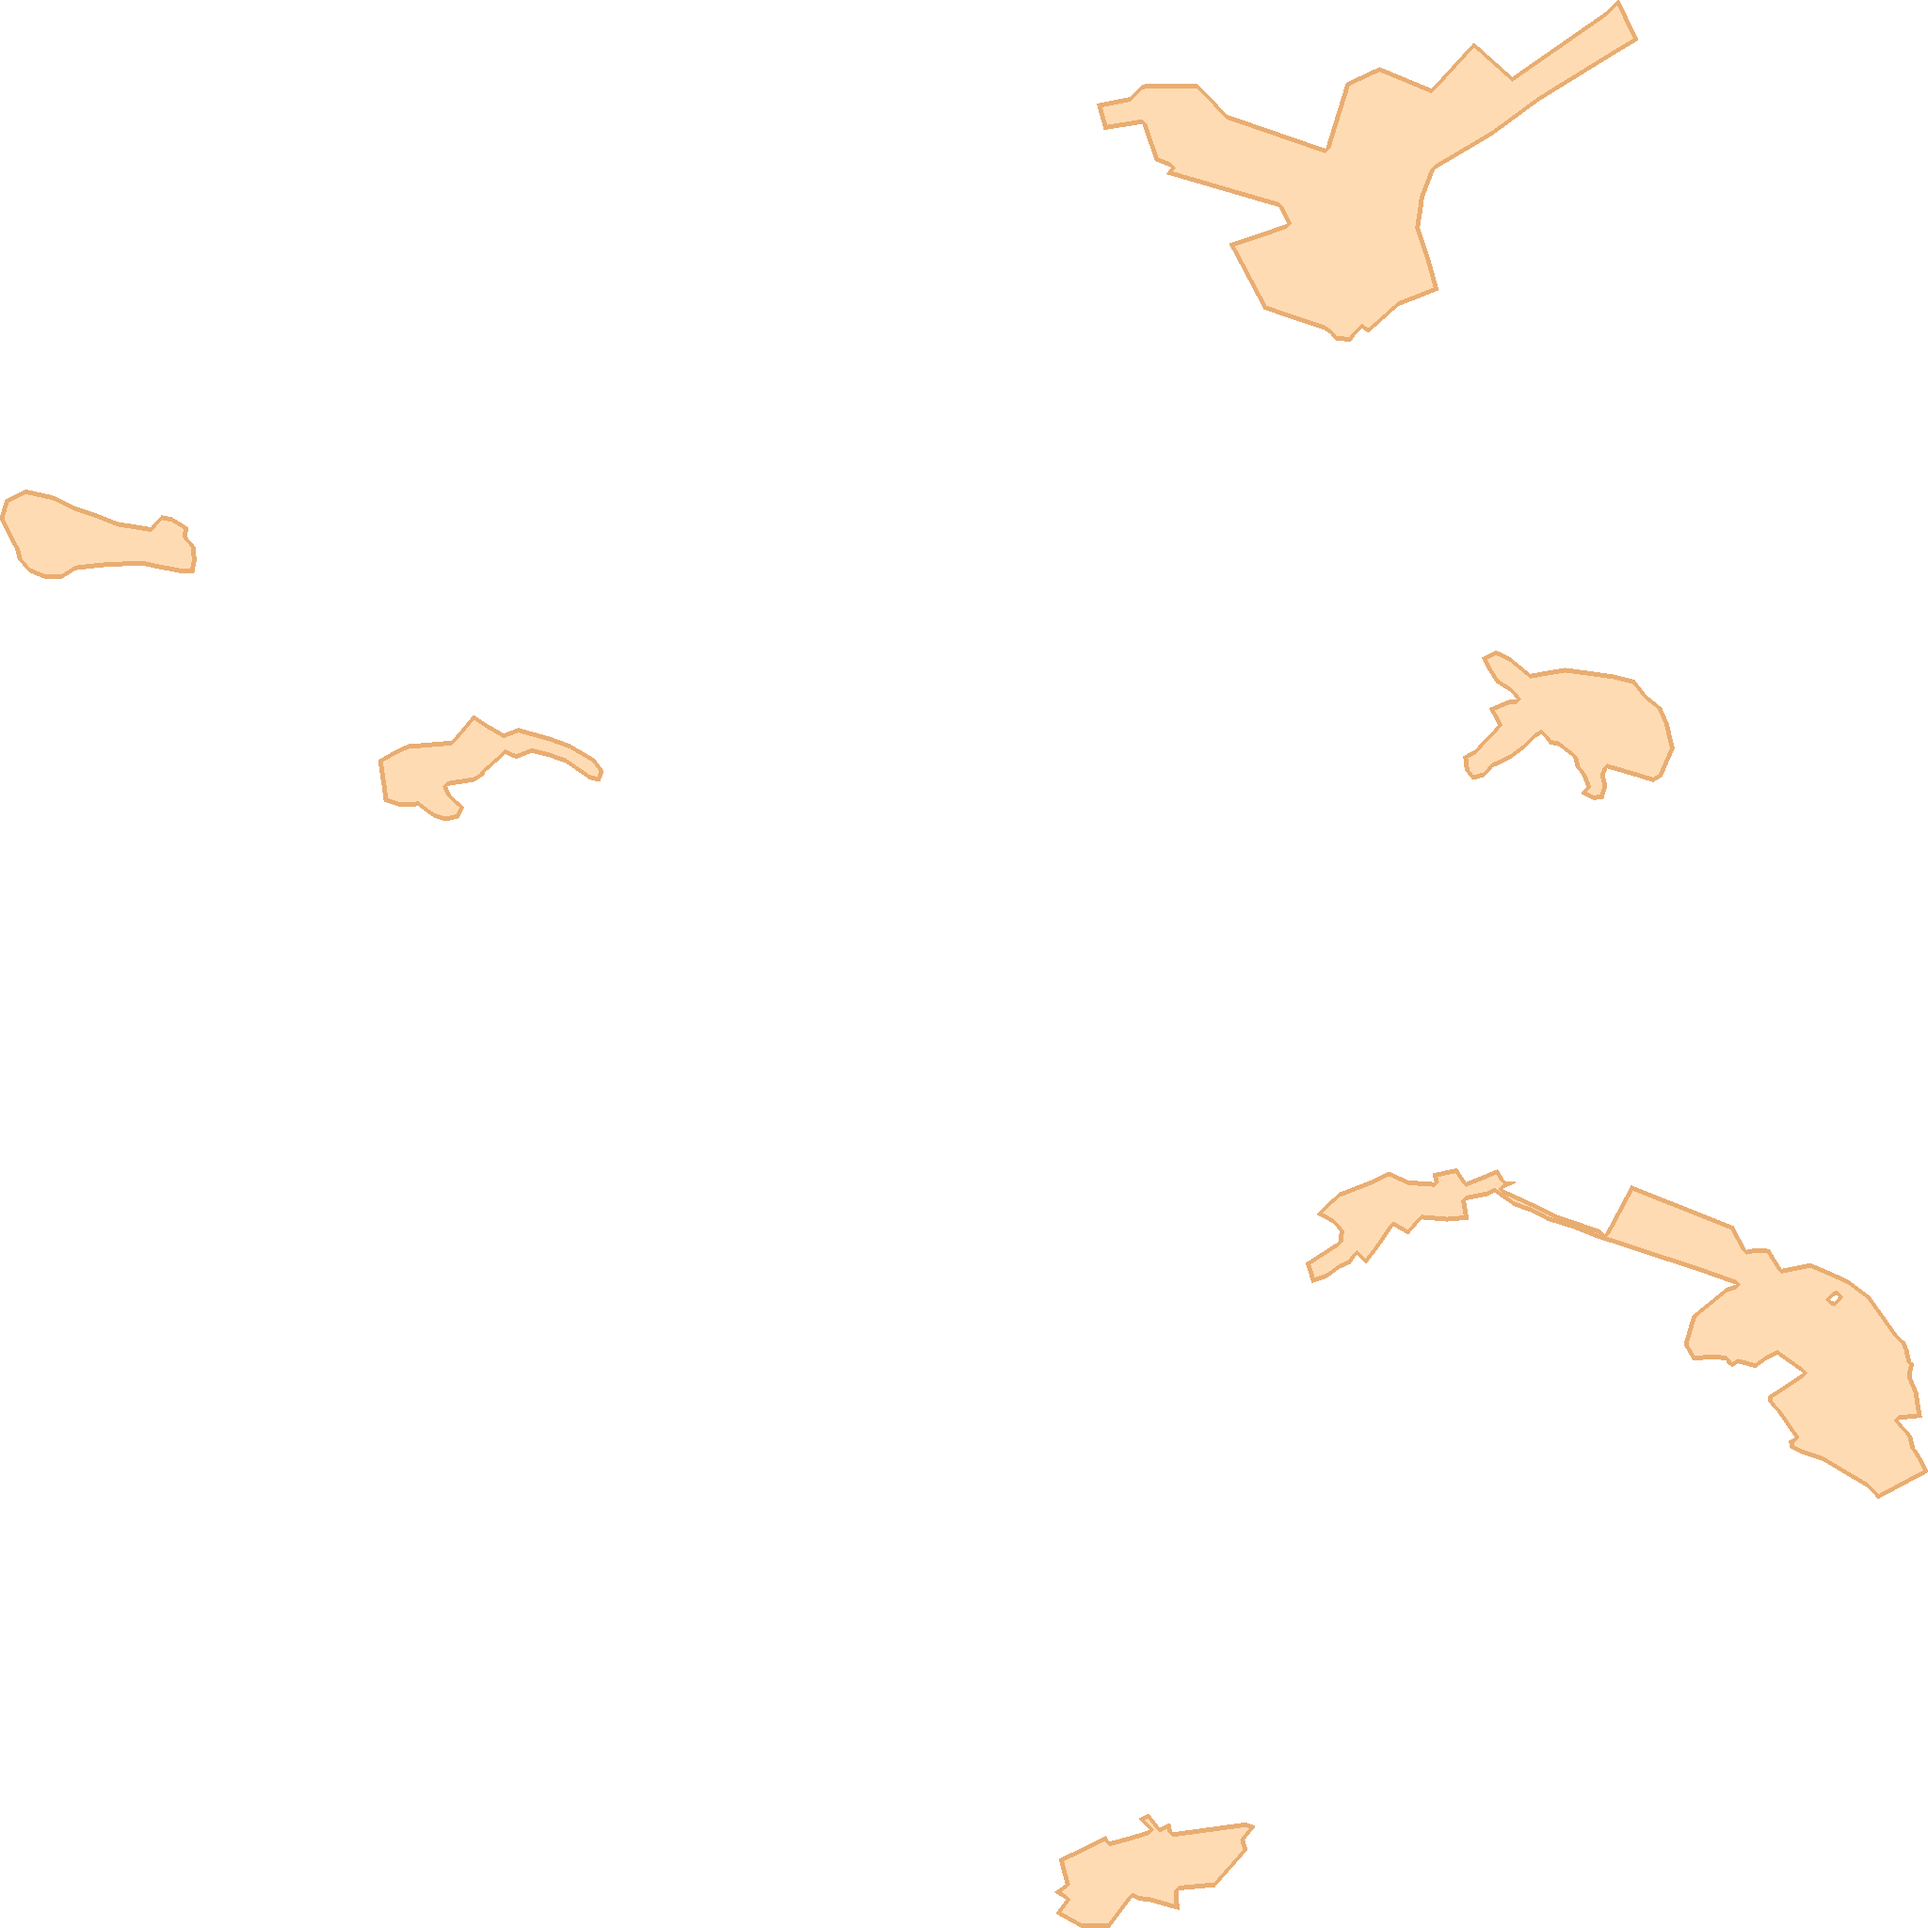
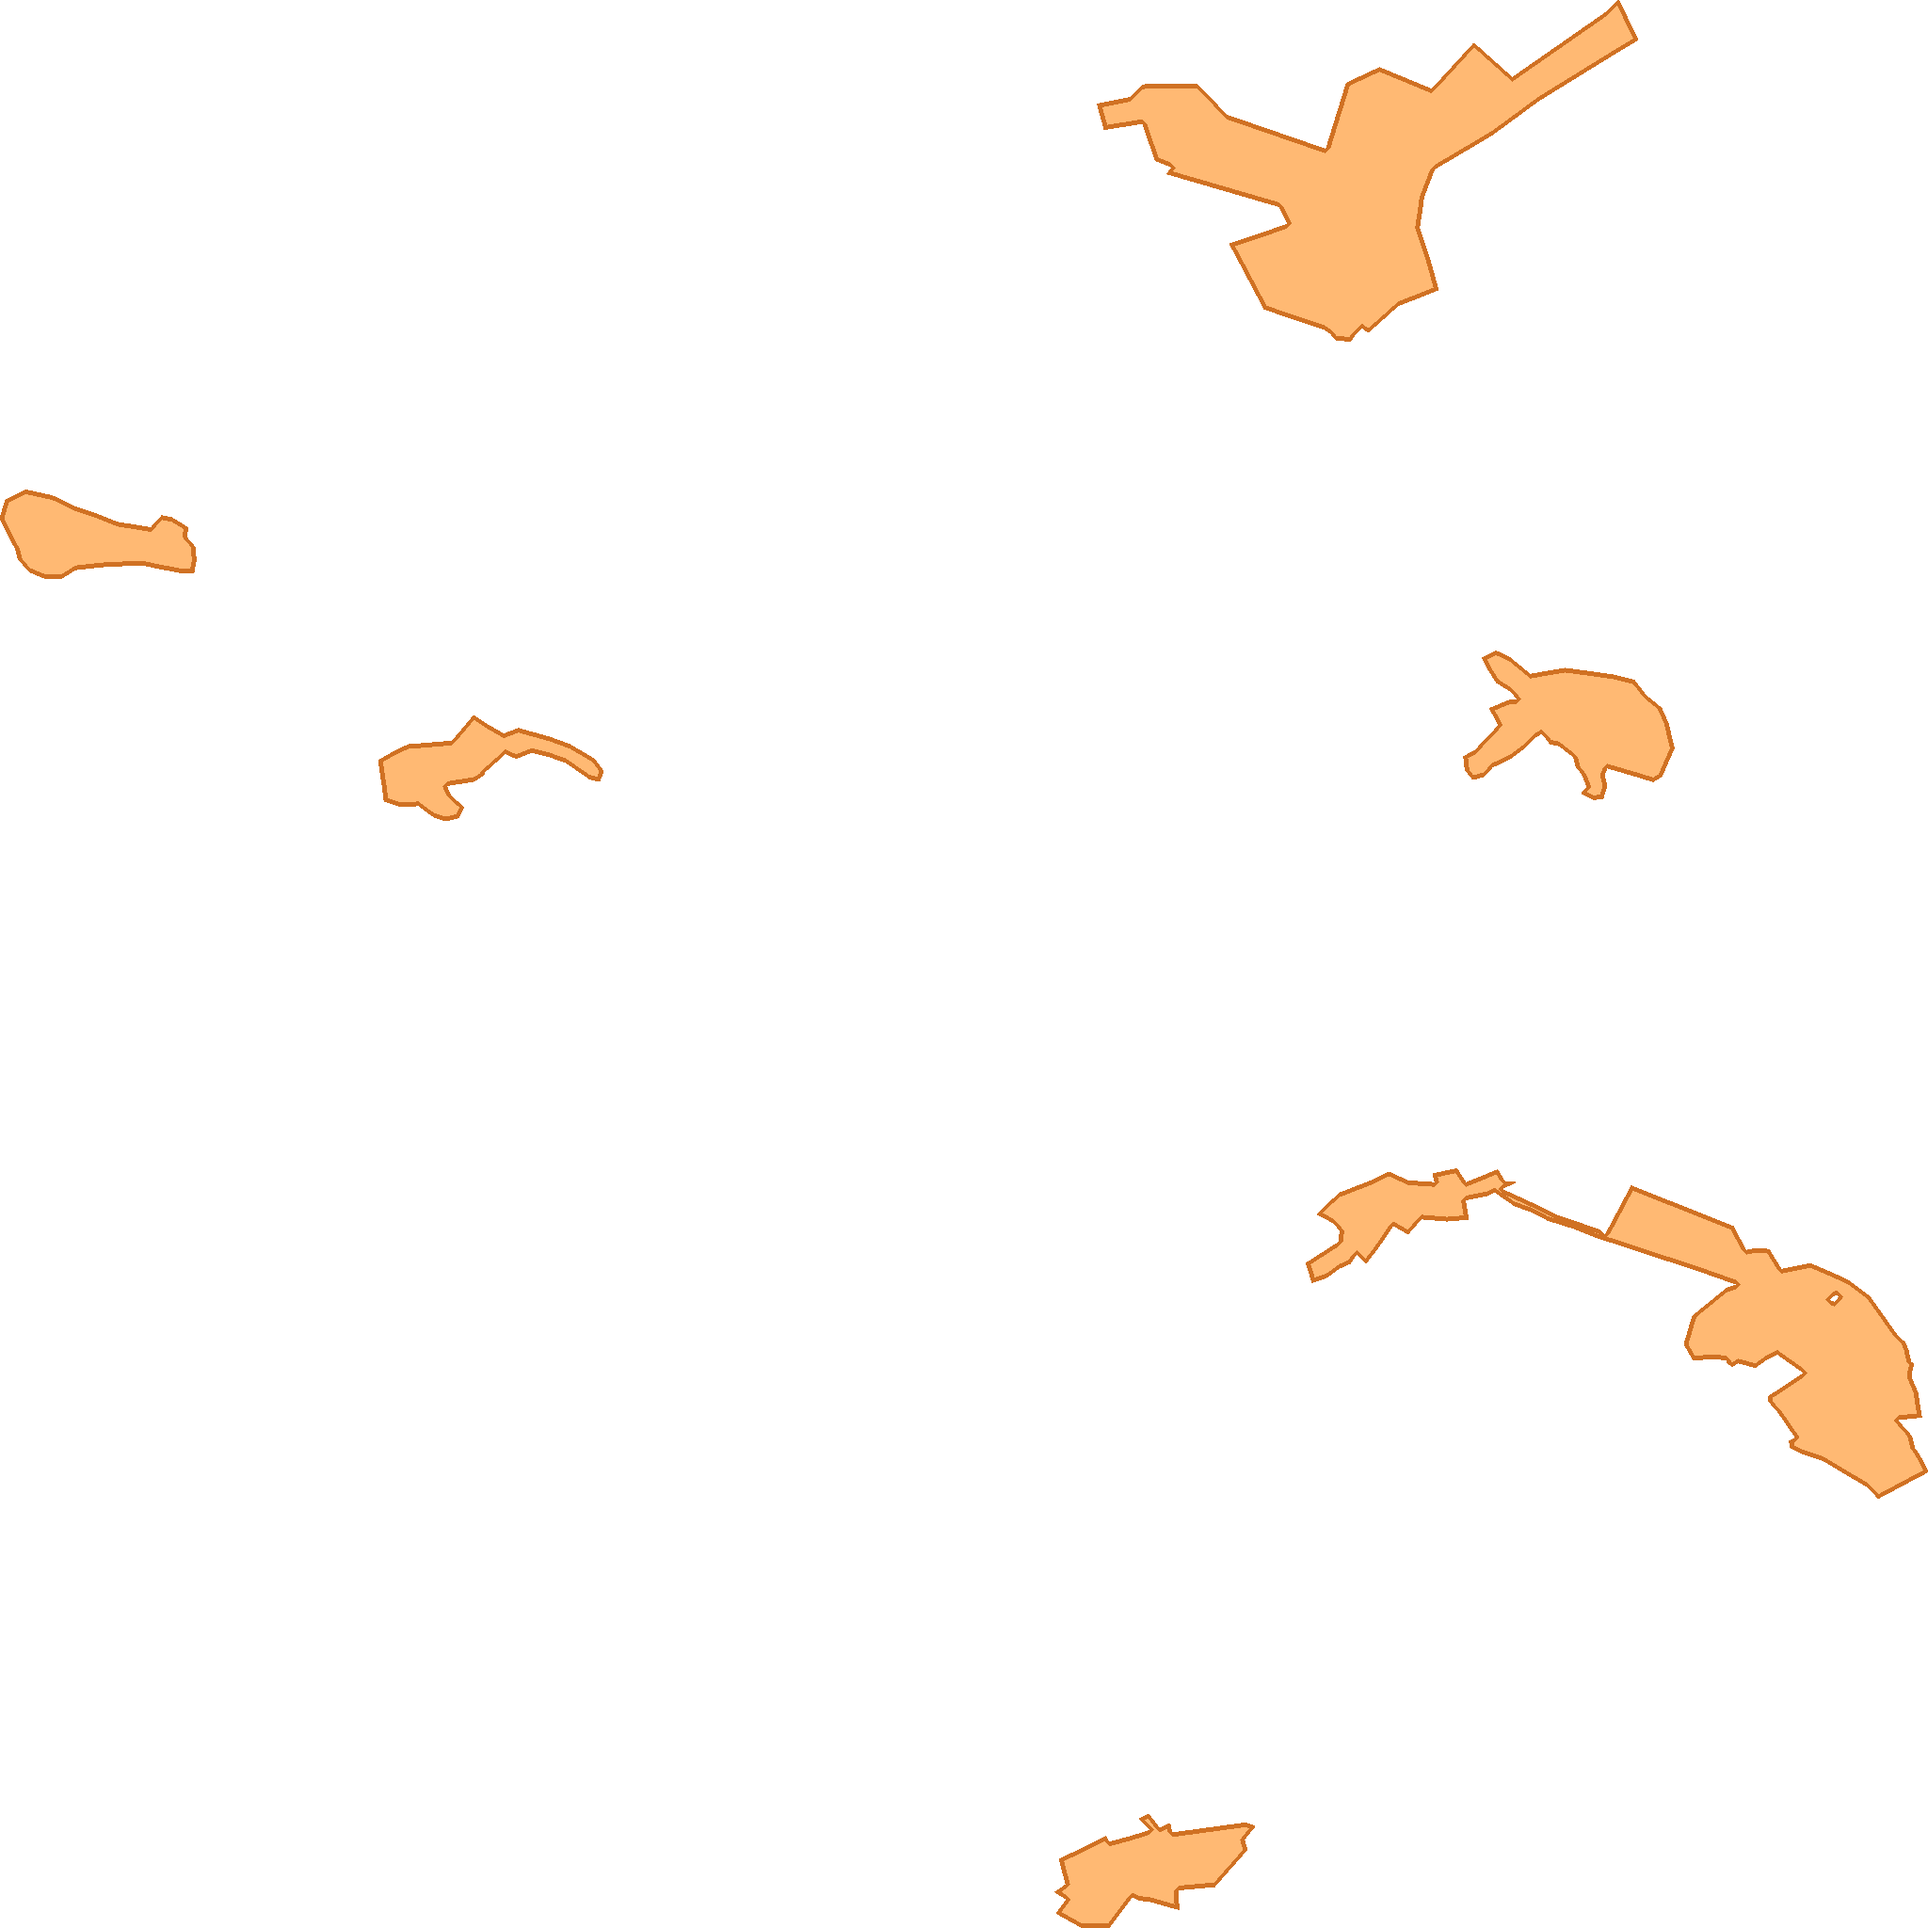
Update Störungskarte

diff --git a/allestoerungen.html b/allestoerungen.html
@@ -144,7 +144,7 @@ cursor: pointer;
  </div>
  <script>
  const map = L.map('map', {zoomControl: false});
-const bounds = [[49.117093337, 9.367274621], [49.204448405, 9.525460598]];
+const bounds = [[49.117093337, 7.929725385], [50.221578332, 9.525460598]];
 map.fitBounds(bounds);
  const maptiler = L.tileLayer('https://api.maptiler.com/maps/basic/{z}/{x}/{y}.png?key=hP74ooTG3ciBab5RShCg',
  {attribution: '© <a href="https://maptiler.com">MapTiler</a>', tileSize: 512, zoomOffset: -1, maxZoom: 20, className: 'grayscale-tiles',
@@ -152,7 +152,7 @@ map.fitBounds(bounds);
  L.control.zoom({
  position: 'topleft'
  }).addTo(map);
-const overlays = [{"png": "output_tiles/stoerung_286.png", "bounds": [[49.117093337, 9.367274621], [49.204448405, 9.525460598]]}];
+const overlays = [{"png": "output_tiles/stoerung_162.png", "bounds": [[50.140015555, 7.929725385], [50.221578332, 8.022248931]]}, {"png": "output_tiles/stoerung_286.png", "bounds": [[49.117093337, 9.367274621], [49.204448405, 9.525460598]]}];
 overlays.forEach(o => {L.imageOverlay(o.png,o.bounds
 ).addTo(map);});
  const zoomFullExtentControl = L.Control.extend({
@@ -166,7 +166,7 @@ container.style.cursor ="pointer";
  L.DomEvent.on(container, 'click', () => map.fitBounds(bounds));
  return container;}});
  map.addControl(new zoomFullExtentControl());
-const stoerungen = [{"name": "Schwabbach", "bounds": [[49.117093337, 9.367274621], [49.204448405, 9.525460598]]}];
+const stoerungen = [{"name": "Egenroth", "bounds": [[50.140015555, 7.929725385], [50.221578332, 8.022248931]]}, {"name": "Schwabbach", "bounds": [[49.117093337, 9.367274621], [49.204448405, 9.525460598]]}];
 const viewControl = L.Control.extend({
 options: {position: 'topleft'},
 onAdd: function(map) {
